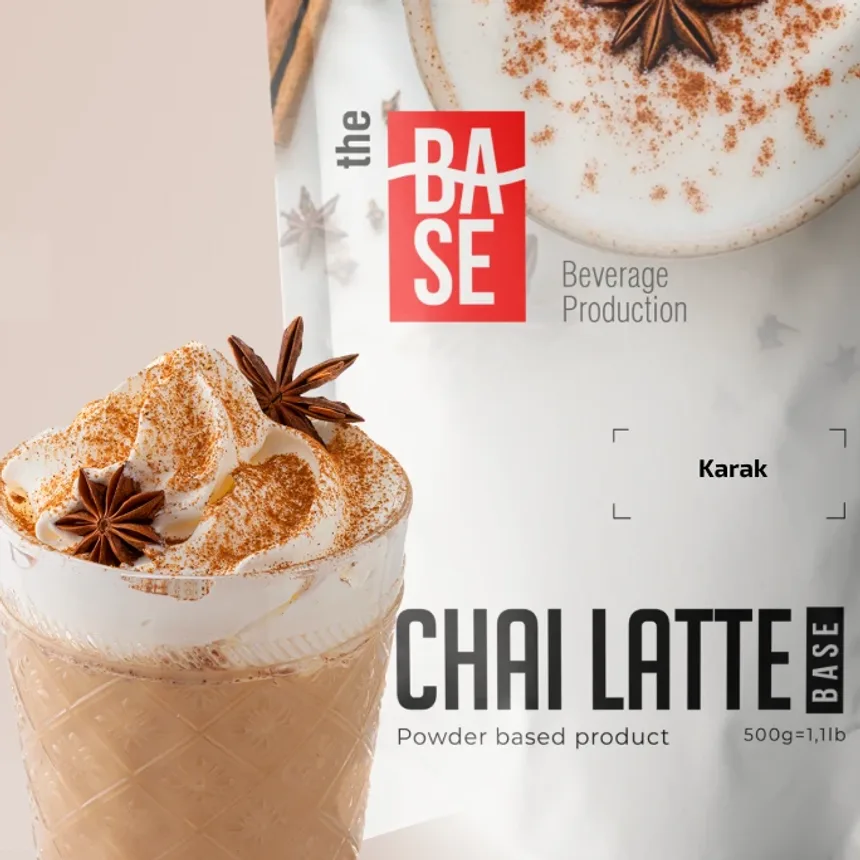
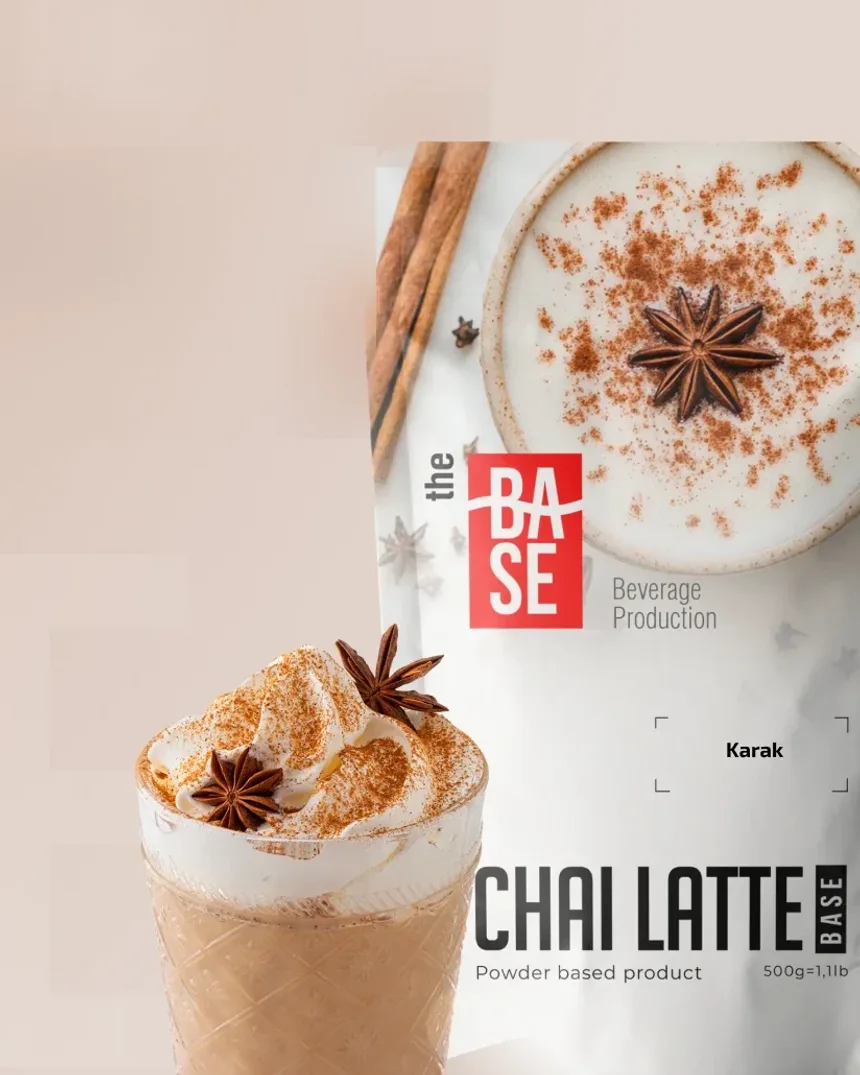
fix(catalog): one frame around all sixteen tiles
Two treatments were sharing one grid. Eleven tiles were the bottom square
of the client's key visual, which cuts the pouch off at the right and at
the foot and lands it at a different size in every one; the other five
were a whole pouch standing centred on a flat colour. Side by side they
read as pictures borrowed from different places, which is what they were.

The tile is now four by five, and the shape is what makes the rest
simple. The key visual's product column is near enough 7:10, so asked to
fill a square it had to be either cropped or centred on a field invented
either side of it — and no invented field matches a wash that ramps in
two directions; carrying the picture's own edge column out instead only
traded the seam for a smear where the pouch meets the edge. At four by
five the picture covers the tile with a strip off the top, and the top of
a key visual is empty wash. Nothing is painted in and nothing is
stretched.

So every tile is the same frame: the product whole, at the same size, on
the same baseline, with its own colour behind it. The five with no key
visual are their cut-out pouch set to the height the photographed pouches
come out at, which is measured off the banners rather than chosen.

The grid moves to the narrower measure with it. The tiles were running
over 300px wide and are the calmer side of 290 now.

diff --git a/src/styles/legacy-catalog.css b/src/styles/legacy-catalog.css
@@ -8,18 +8,18 @@
  * and prices. What is touched is only how it looks.
  *
  * Composition follows the reference the client gave — Onyx Coffee Lab's shop —
- * and the whole of that reference is one idea: the picture is the card. A big
- * square photograph carrying its own colour, and under it type on the bare page
- * with no panel, no border, no radius and no shadow anywhere. Everything the
- * previous pass added to hold a mismatched cut-out together — the warm panel,
- * the colour tab across the top, the outlined pill — was scaffolding for
- * artwork that has since been replaced, and it is all gone.
+ * and the whole of that reference is one idea: the picture is the card. A
+ * photograph carrying its own colour, and under it type on the bare page with
+ * no panel, no border, no radius and no shadow anywhere. Everything the previous
+ * pass added to hold a mismatched cut-out together — the warm panel, the colour
+ * tab across the top, the outlined pill — was scaffolding for artwork that has
+ * since been replaced, and it is all gone.
  *
  * What made that possible is the artwork. `scripts/build-catalog-tiles.mjs`
- * cuts one square tile per product out of the client's own key visuals, so
- * every tile is the same crop of the same template: the pouch, the drink made
- * from it, and the product's colour behind both. A white cut-out needed a
- * surface to stand on; a photograph is its own surface.
+ * builds one four-by-five tile per product out of the client's own key visuals,
+ * so every tile is the same crop of the same template: the pouch whole, the
+ * drink made from it, and the product's colour behind both. A white cut-out
+ * needed a surface to stand on; a photograph is its own surface.
  *
  * Under it, three lines in the reference's rhythm — name against price, the
  * line of copy, then the category set small and letterspaced — and the cart
@@ -82,11 +82,10 @@
   /*
    * Four. Three is what the reference uses, but the reference runs at about
    * 1200px and this page ran at 1600 — the same three tiles came out over 500px
-   * square, which is a pack shot the size of the real pouch and half the
+   * across, which is a pack shot the size of the real pouch and half the
    * catalogue off the bottom of the screen. Narrowing the measure and adding a
-   * column brings a tile back to roughly a third of that area, which is the
-   * size the reference actually reads at, and puts all sixteen products within
-   * four rows.
+   * column brings a tile back to about the width the reference reads at, and
+   * puts all sixteen products within four rows.
    */
   --catg-columns: 4;
   --catg-gap: clamp(0.9rem, 1.6vw, 1.6rem);
@@ -106,7 +105,7 @@
      of this same flex container and carry their own spacing, so a row gap here
      would open the head as well; the cards space themselves instead. */
   gap: 0 var(--catg-gap);
-  max-width: var(--tbb-measure-wide);
+  max-width: var(--tbb-measure);
 }
 
 /* `:not(.is-hidden)` is what keeps the filters working: they hide a whole
@@ -225,16 +224,19 @@ html body .legacy-document #allrecords .catg-wrap .catg-group .catg-grid .catg-c
 
 /* ---- the picture ----
  *
- * A square, edge to edge, carrying the product's own colour because the colour
- * is in the photograph — see `scripts/build-catalog-tiles.mjs`. Square rather
- * than the export's 0.95, because the tiles are cut square and a box of another
- * shape would either letterbox them or crop them twice. */
+ * Edge to edge, carrying the product's own colour because the colour is in the
+ * photograph — see `scripts/build-catalog-tiles.mjs`. Four by five rather than
+ * the export's 0.95: it is the shape the tiles are built at, and a box of any
+ * other would either letterbox them or crop them twice. It is also the shape
+ * that lets a standing pouch be shown whole, which is what a square could not
+ * do — at a square the pouch came out cut off at the right on eleven products
+ * and standing complete on the other five, two treatments in one grid. */
 
 html body .legacy-document #allrecords .catg-wrap .catg-group .catg-grid .catg-card .catg-img-wrap {
   background: transparent !important;
   border: 0 !important;
   border-radius: 0 !important;
-  aspect-ratio: 1 !important;
+  aspect-ratio: 4 / 5 !important;
   overflow: hidden !important;
   transition: transform var(--tbb-dur) var(--tbb-ease) !important;
 }
